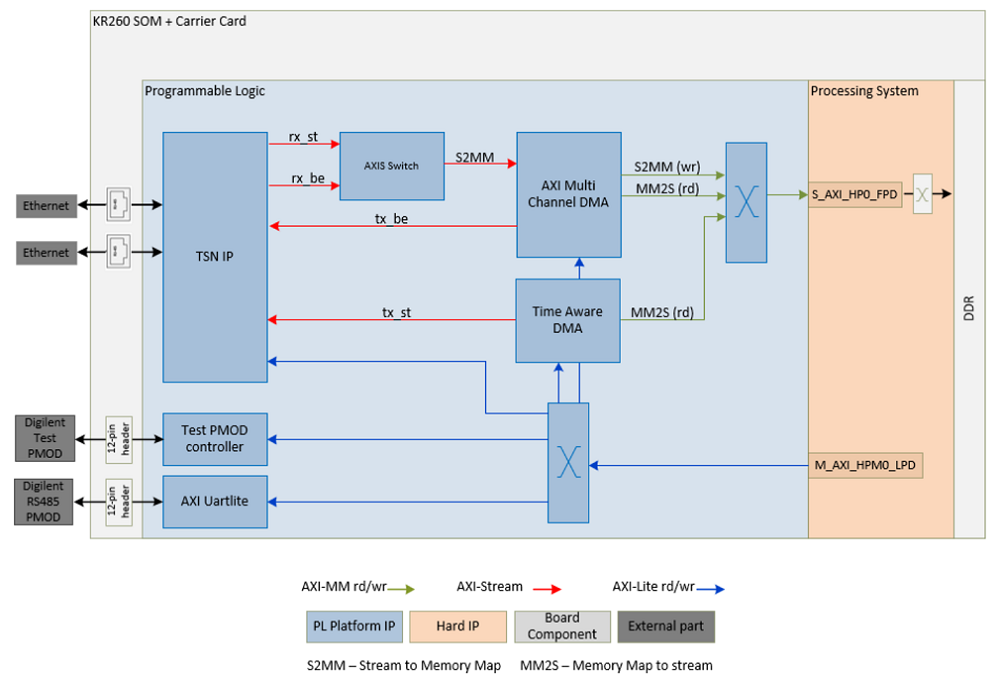
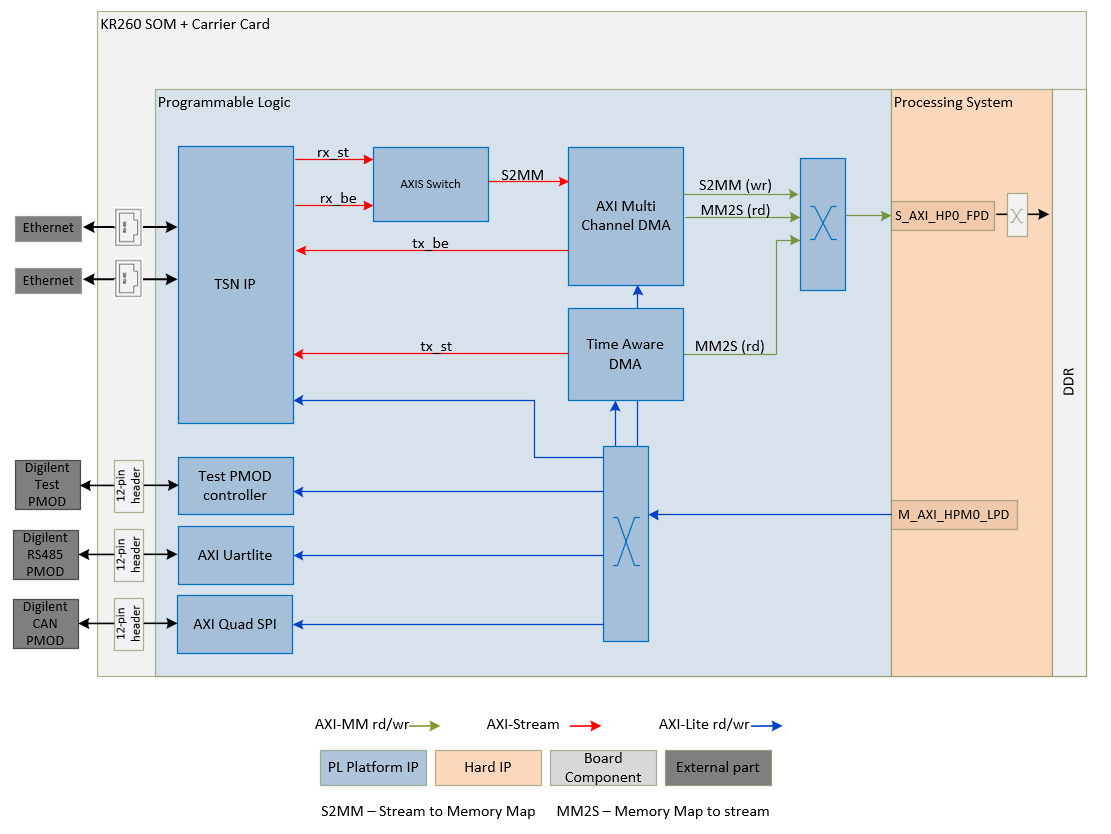
kv260: Update HW Arch document to include PMOD CAN information

Changed region(s): [[0.0, 0.0, 0.992, 0.981], [0.062, 0.0, 0.248, 0.0613], [0.372, 0.3985, 0.434, 0.4292]]

diff --git a/docs/src/hw_arch_platform.md b/docs/src/hw_arch_platform.md
@@ -6,7 +6,9 @@
 
  The PL design provides a platform to support transmission of Ethernet traffic based on traffic shaping protocols. The traffic can be control information to be passed between different nodes in a Robotics system or between various Industrial Field devices. The requirement in these systems would be that the traffic is deterministic.
 
- It also has an RS485 interface, which can be used to connect to RS485 peripherals such as actuators, sensors, and so on. These could be components in a Robotics system or  part of a Field device.
+ It has an RS485 interface, which can be used to connect to RS485 peripherals such as actuators, sensors, and so on. These could be components in a Robotics system or  part of a Field device.
+
+ It also has a CAN interface, which can be connected to a CAN interface on another board, or other devices, daisy chaining multiple CAN nodes. CAN is widely used communication protocol in Industrial and Robotic applications to exchange control information.
 
  The following figures show the top-level hardware architecture of the reference design:
 
@@ -102,7 +104,14 @@ For more information on how to use PMOD signals to check clock synchronization, 
     To test an RS485 interface, the signals are connected on the J22 connector on the KD240. The application running on the PS reads and writes to the controlling dev terminal and communicates
     with the temperature sensor using MODBUS protocol.
 
-For information on how to test the RS485 interface, refer to the [application deployment page](./app_deployment.md).
+    For information on how to test the RS485 interface, refer to the [application deployment page](./app_deployment.md).
+
+## CAN
+
+* KR260:
+    
+    The LogiCORE IP [AXI Quad Serial Peripheral Interface (SPI)](https://www.amd.com/content/dam/xilinx/support/documents/ip_documentation/axi_quad_spi/v3_2/pg153-axi-quad-spi.pdf) core connects the AXI4 interface to SPI slave devices that support the Standard, Dual, or Quad SPI protocol instruction set. The [Digilent PMOD CAN](https://digilent.com/reference/pmod/pmodcan/start) is controlled by AXI Quad SPI through the 12-bit PMOD interface. The Digilent PMOD also has an embedded  Microchip MCP25625  that allows for communication with external CAN devices.
+
 
 ## Clocks, Resets and Interrupts
 
@@ -116,7 +125,7 @@ The following table identifies the main clocks of the PL design, their source, c
 | clk_out1* |Clocking wizard |200 MHz| TSN IP fifo clock, TADMA IP and MCDMA IP data transactions clock |
 | clk_out2* |Clocking wizard| 125 MHz | TSN IP and TADMA IP Real Time clock (RTC) for internal timers for time sensitivity |
 | clk_out3* |Clocking wizard |300 MHz | reference clock for IDELAY control block for PHY operation on TSN IP|
-| clk_out4* |Clocking wizard |100 MHz | AXI-Lite clock to configure TSN IP, MCDMA IP, AXI Uartlite IP, Register interface IP |
+| clk_out4* |Clocking wizard |100 MHz | AXI-Lite clock to configure TSN IP, MCDMA IP, AXI Uartlite IP, AXI Quad SPI IP, Register interface IP |
 
 \*Clocks exposed as a Platform interface and can be used by an accelerator.
 
@@ -145,6 +154,8 @@ The following table lists the PL-to-PS interrupts used in this design. The [AXI 
 | intr[8]      | KR260,KD240 | TADMA IP                                                          |
 | intr[9-14]   | KR260,KD240 | MCDMA IP                                                          |
 | intr[15]     | KR260       | AXI Uartlite IP                                                   |
+| intr[16]     | KR260       | PMOD CAN                                                          |
+| intr[17]     | KR260       | AXI Quad SPI IP                                                   |
 | pl_ps_irq1   | KR260       | Exposed as a Platform interface and can be used by an accelerator |
 
 
@@ -156,29 +167,29 @@ The resource utilization numbers on this platform post implementation is reporte
 
     | Resource | Utilization | Available | Utilization % |
     |----------|-------------|-----------|---------------|
-    | LUT      | 47061       | 117120    | 40.18         |
-    | LUTRAM   | 3769        | 57600     | 6.54          |
-    | FF       | 70328       | 234240    | 30.02         |
+    | LUT      | 47591       | 117120    | 40.57         |
+    | LUTRAM   | 3782        | 57600     | 6.57          |
+    | FF       | 70868       | 234240    | 30.25         |
     | BRAM     | 79.5        | 144       | 55.21         |
     | URAM     | 13          | 64        | 20.31         |
     | DSP      | 35          | 1248      | 2.80          |
-    | IO       | 43          | 186       | 22.75         |
-    | BUFG     | 17          | 352       | 4.83          |
+    | IO       | 49          | 189       | 25.93         |
+    | BUFGCE   | 13          | 11        | 11.61         |
     | MMCM     | 1           | 4         | 25.0          |
 
 * KD240:
 
     | Resource | Utilization | Available | Utilization % |
     |----------|-------------|-----------|---------------|
-    | LUT      | 57895       | 70560     | 82.05         |
-    | LUTRAM   | 4098        | 28800     | 14.23         |
-    | FF       | 84715       | 141120    | 60.03         |
+    | LUT      | 60004       | 70560     | 85.04         |
+    | LUTRAM   | 2996        | 28800     | 10.40         |
+    | FF       | 81183       | 141120    | 57.53         |
     | BRAM     | 116         | 216       | 53.70         |
-    | DSP      | 133         | 360       | 36.94         |
-    | IO       | 63          | 81        | 77.78         |
-    | BUFG     | 21          | 196       | 10.71         |
+    | DSP      | 136         | 360       | 37.78         |
+    | IO       | 64          | 81        | 79.01         |
+    | BUFGCE   | 16          | 88        | 18.18         |
     | MMCM     | 2           | 3         | 66.67         |
-    | PLL      | 0           | 6         | 0.00          |
+    | BUFG_PS  | 1           | 72        | 1.39          |
 
 ## Next Steps
 
